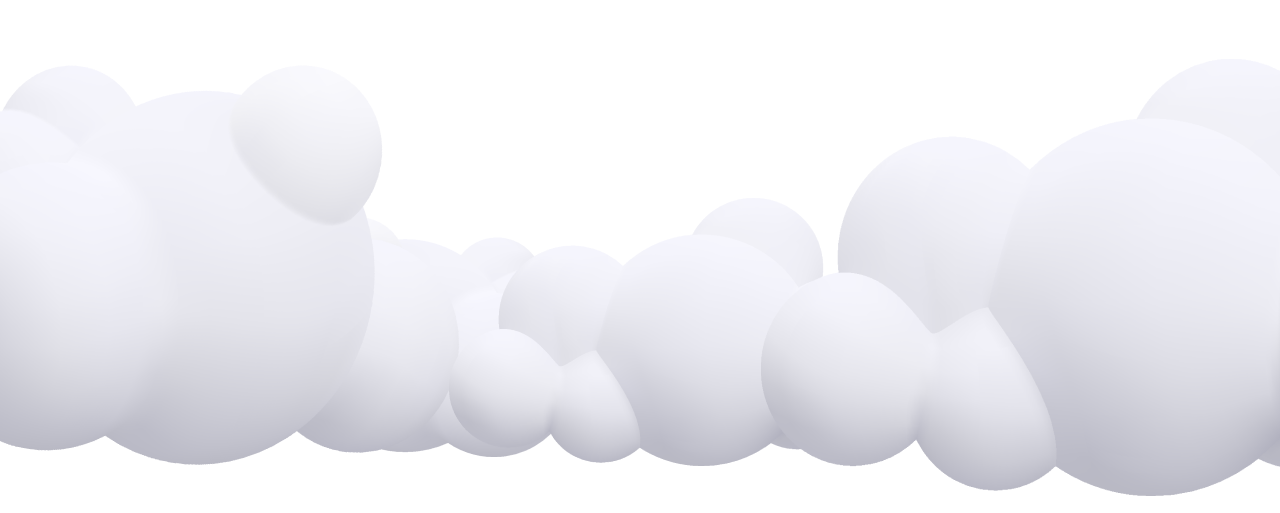
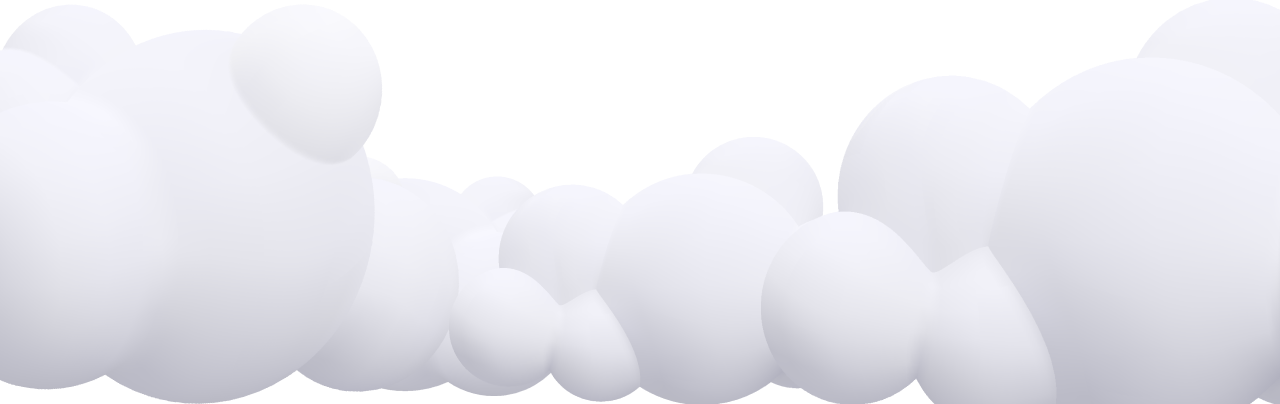
Fix cloud

Changed region(s): [[0.0, 0.802, 1.0, 1.0], [0.6562, 0.3564, 0.6875, 0.4158], [0.2812, 0.3267, 0.3125, 0.3861]]

diff --git a/client/src/pages/Home/Section1.jsx b/client/src/pages/Home/Section1.jsx
@@ -17,7 +17,7 @@ export const Section1 = () => {
           </p>
         </div>
 
-        <div className="flex mt-20 z-10">
+        <div className="flex mt-10 z-10">
           <div className="bg-white/20 backdrop-blur-lg rounded-xl w-[300px] h-[250px] flex flex-col justify-center items-center rotate-[-15deg] shadow-lg" data-aos="fade-left" data-aos-delay="350">
             <div className="text-4xl bg-[#F4FF4B47] px-[20px] py-[15px] rounded-full border-[#FFFFFFC1] border-[1.2px]">✔</div>
             <p className="mt-2 text-[#0159EF] text-[24px] font-bold text-center">
@@ -41,7 +41,7 @@ export const Section1 = () => {
             About us
           </Link>
         </div>
-        <div className="w-[1500px]">
+        <div className="w-full py-0">
           <img
             src="/cloud.png"
             alt=""
